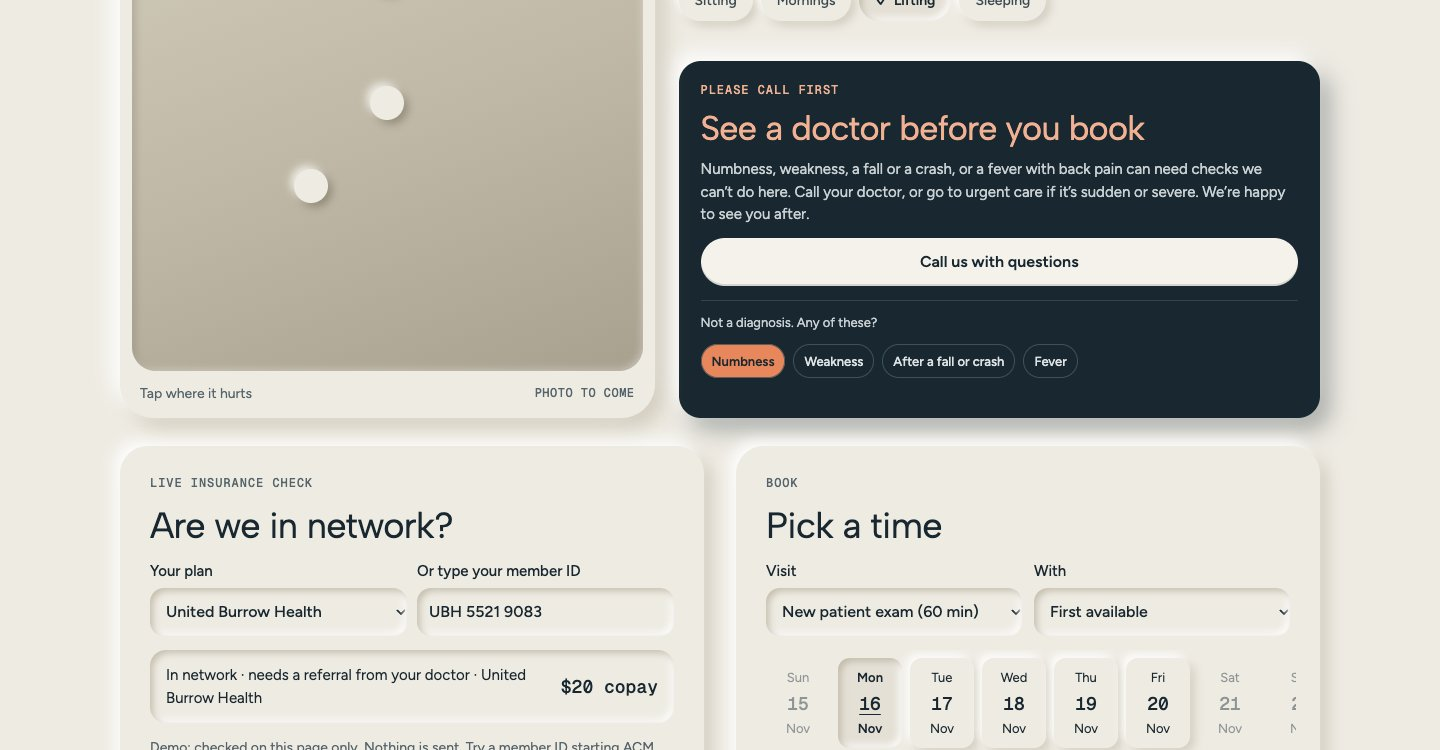
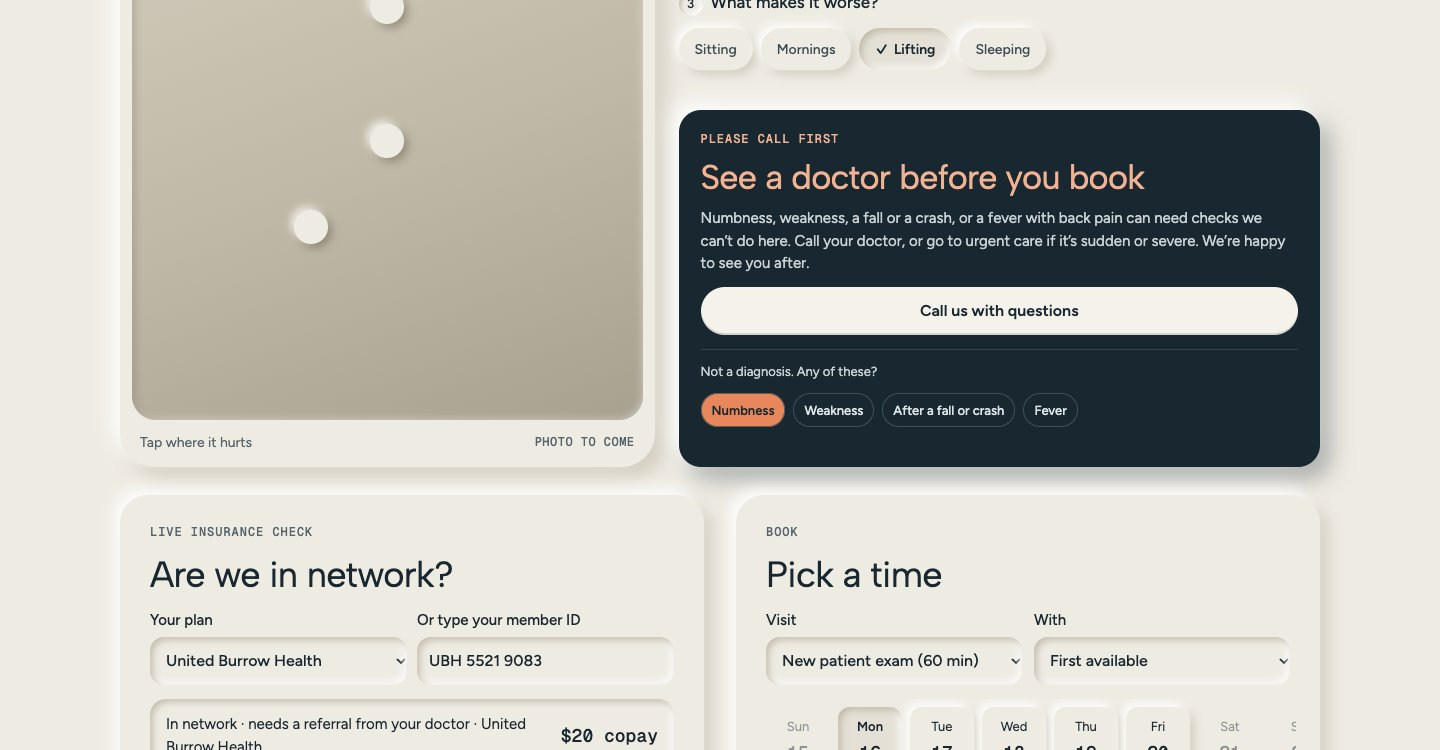
Hopwell: photo frame stretches to the right column on desktop so both columns end together; screens re-shot

diff --git a/preview/work/bunny-world/hopwell-chiro/index.html b/preview/work/bunny-world/hopwell-chiro/index.html
@@ -16,7 +16,7 @@ window.dataLayer=window.dataLayer||[];function gtag(){dataLayer.push(arguments);
 <link rel="preconnect" href="https://fonts.googleapis.com"><link rel="preconnect" href="https://fonts.gstatic.com" crossorigin>
 <link rel="stylesheet" href="https://fonts.googleapis.com/css2?family=Albert+Sans:ital,wght@0,400;0,500;1,400&family=Figtree:wght@400;500;600&family=Geist+Mono:wght@400;500&family=IBM+Plex+Mono:wght@500&family=Gabarito:wght@900&display=swap">
 <link rel="stylesheet" href="../shop.css?v=10">
-<link rel="stylesheet" href="style.css?v=14">
+<link rel="stylesheet" href="style.css?v=15">
 </head>
 <body>
 <div class="demo"><span><a class="bw-wm" href="../" aria-label="Back to Bunny World">&larr; <img src="../brand/mark-small-cream.svg?v=2" alt="" width="13" height="20"><span>Bunny World</span></a> &middot; a demo by <a href="/">Sea of Grass</a></span><span>Made-up shop. Everything works; nothing is sent.</span></div>

diff --git a/preview/work/bunny-world/hopwell-chiro/style.css b/preview/work/bunny-world/hopwell-chiro/style.css
@@ -225,3 +225,10 @@ blockquote{background:var(--bg);border-radius:28px;padding:26px 28px;box-shadow:
 .hours tr.today td{background:#E4E0D6}
 .map{border-radius:28px;box-shadow:var(--up);border:12px solid var(--bg)}
 @media (max-width:900px){.pair{gap:28px}.first .ph.wide{margin:12px}}
+
+/* Desktop: the photo frame stretches to the full height of the steps + answer column, so both columns end together. */
+@media (min-width:901px){
+ .hook{align-items:stretch}
+ .hook .fig{position:static;display:flex;flex-direction:column}
+ .hook .stage{aspect-ratio:auto;flex:1;min-height:520px}
+}
